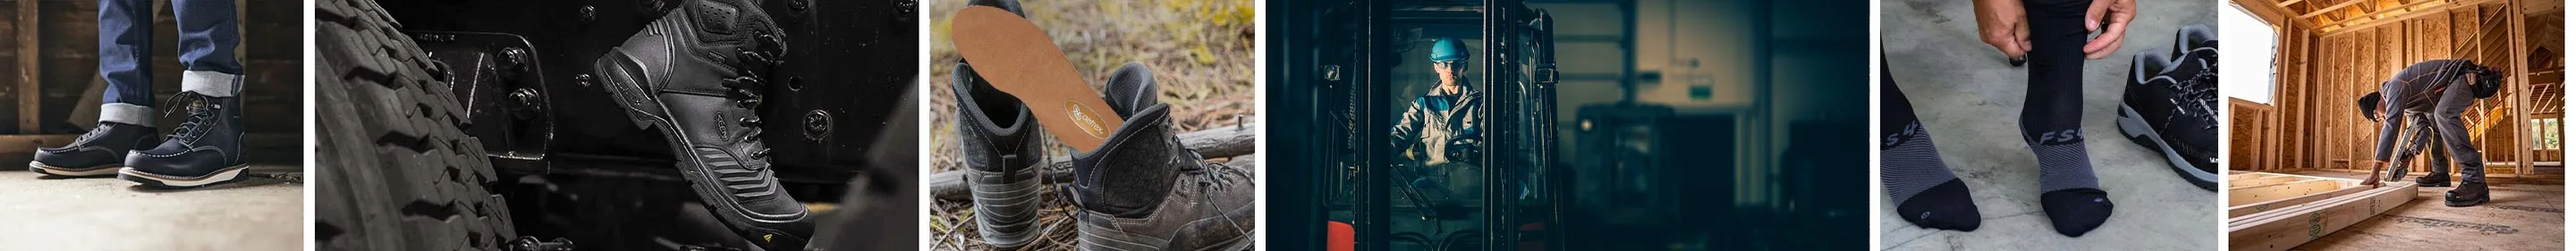
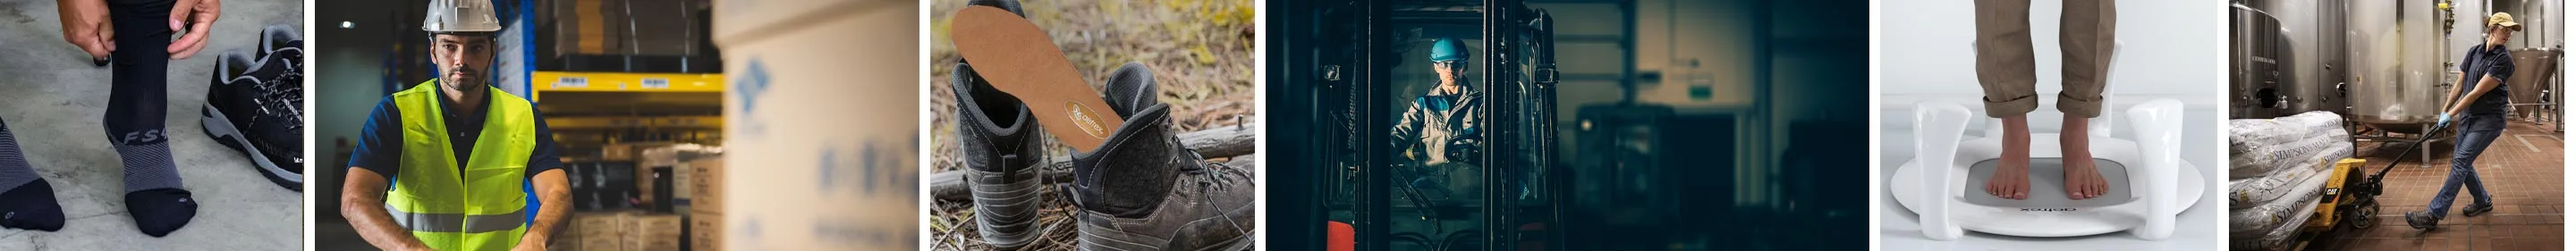
New carousel image

diff --git a/index.html b/index.html
@@ -364,7 +364,7 @@
  <!-- Sliding Image -->
  <div class="scrolling-image-container">
   <div class="scrolling-image">
-    <img src="./assets/img/others/carousel1.webp" alt="Workplace Photo Animation"><img src="./assets/img/others/carousel2.webp" alt="Workplace Photo Animation Main Shoes">
+    <img src="./assets/img/others/carousel1.webp" alt="Workplace Photo Animation"><img src="./assets/img/others/carousel1.webp" alt="Workplace Photo Animation Main Shoes">
   </div>
 </div>
  <!-- Features -->
